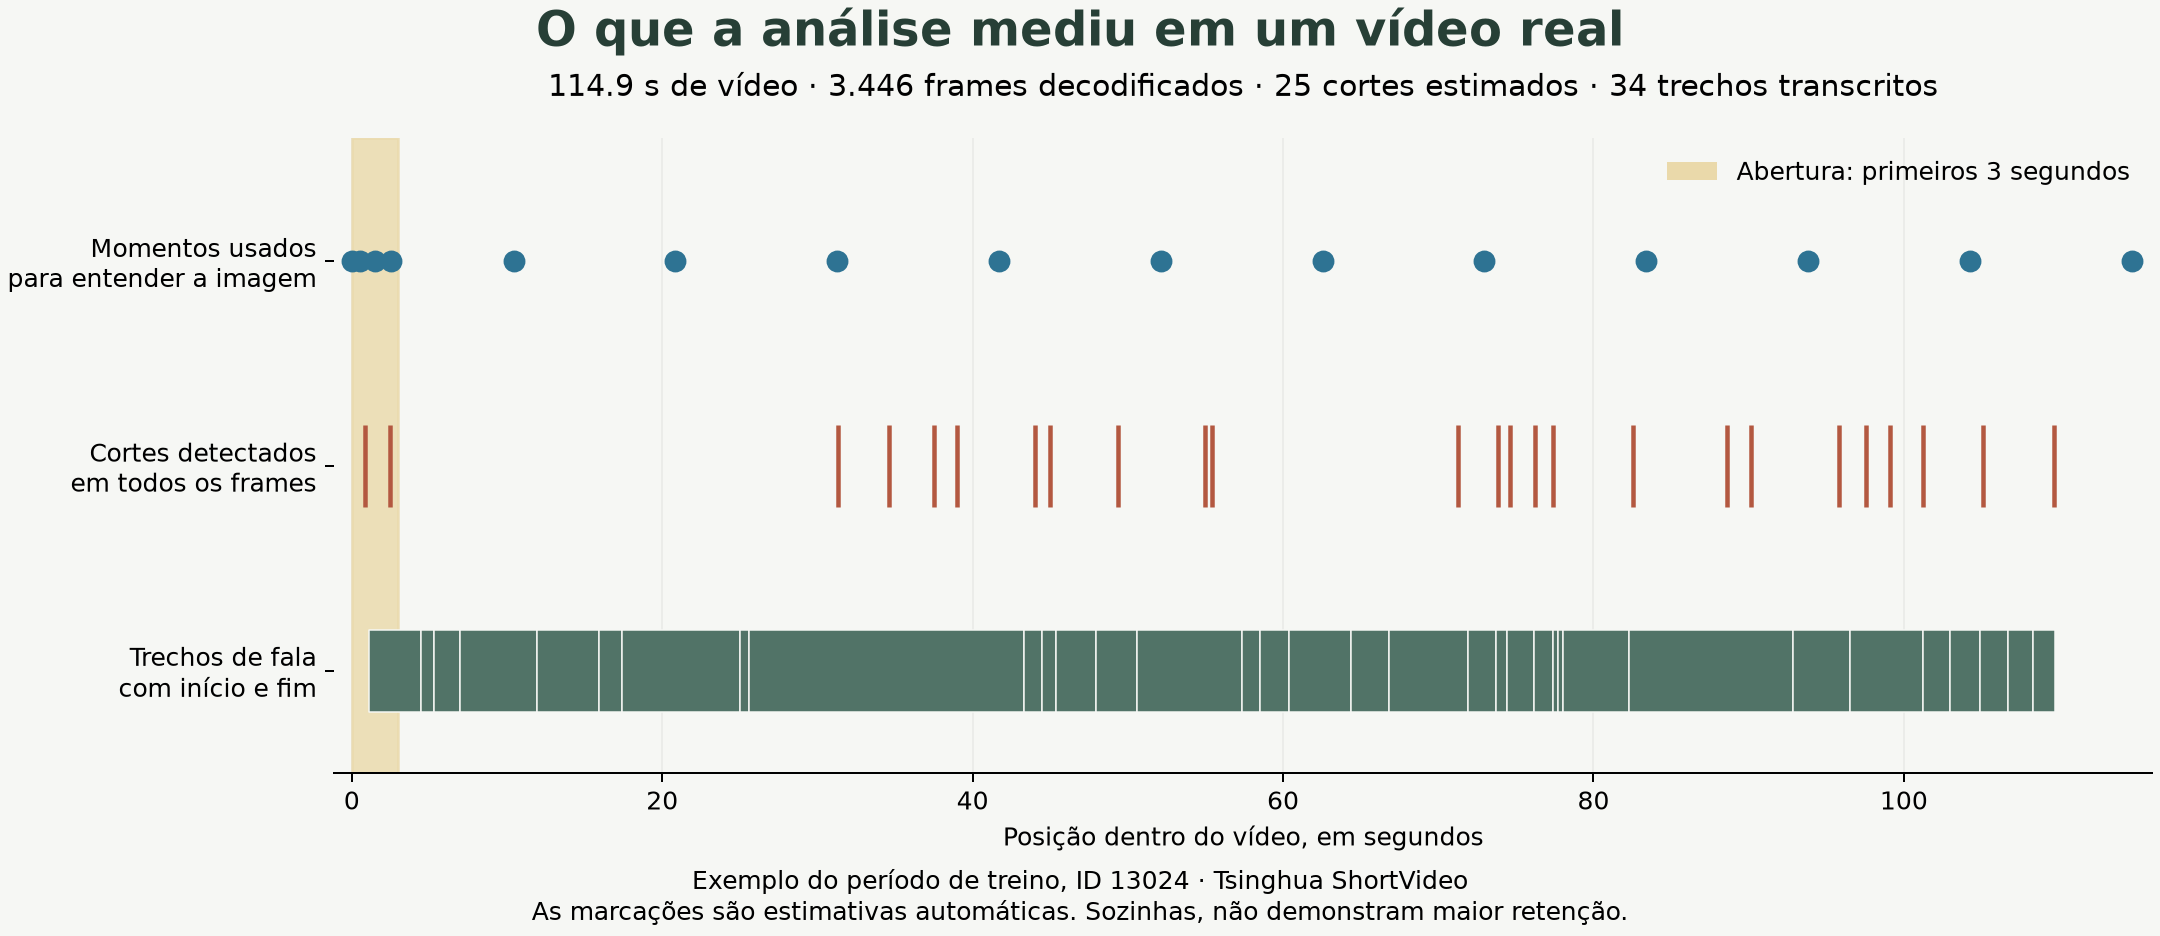
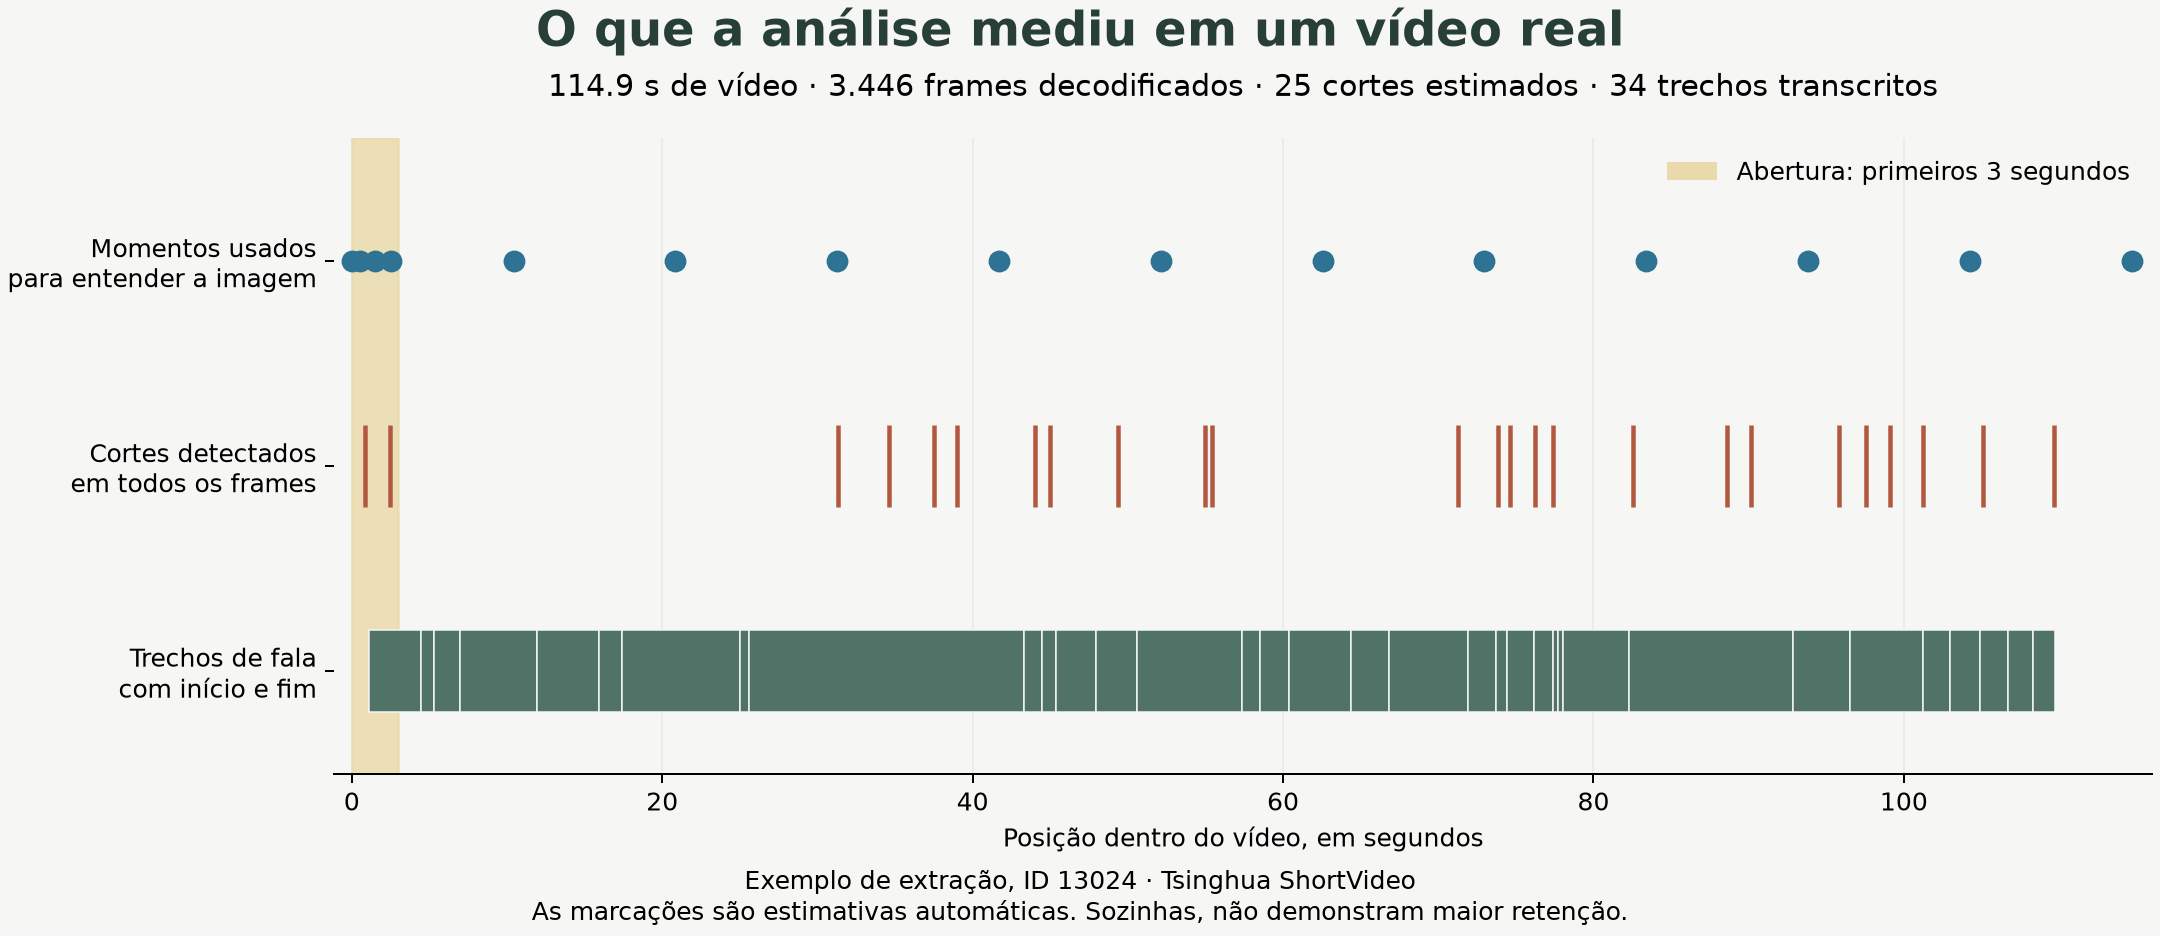
docs: distinguish complete-video study from the demo extraction pipeline

diff --git a/scripts/render_video_analysis.py b/scripts/render_video_analysis.py
@@ -14,6 +14,7 @@ parser = argparse.ArgumentParser(description=__doc__)
 parser.add_argument("features", type=Path)
 parser.add_argument("--output", type=Path, default=Path("docs/assets/video-analysis-example.png"))
 args = parser.parse_args()
+video_id = args.features.stem.removeprefix("video-")
 record = json.loads(args.features.read_text())
 duration = record["duration_s"]
 cuts = record["editing"]["cut_times"]
@@ -59,7 +60,7 @@ axis.set_title(
     pad=17,
 )
 fig.supxlabel(
-    "Exemplo do período de treino, ID 13024 · Tsinghua ShortVideo\nAs marcações são estimativas automáticas. Sozinhas, não demonstram maior retenção.",
+    f"Exemplo de extração, ID {video_id} · Tsinghua ShortVideo\nAs marcações são estimativas automáticas. Sozinhas, não demonstram maior retenção.",
     fontsize=10,
 )
 args.output.parent.mkdir(parents=True, exist_ok=True)

diff --git a/docs/VERIFICATION.md b/docs/VERIFICATION.md
@@ -2,7 +2,9 @@
 
 Última verificação local em **17 de outubro de 2026**, Python 3.12.13, macOS. O [lockfile](../uv.lock) fixa as dependências. Este registro descreve execuções locais; o resultado da CI remota precisa ser consultado separadamente.
 
-**Resultado atual: 62 testes passaram**, sem skips no ambiente local com FFmpeg disponível. Ruff, formatação e build também passaram. Houve sete avisos de depreciação de conversão temporal pandas/NumPy, sem falhas. A sintaxe JavaScript e a interface foram verificadas na entrega inicial; a atualização atual se concentrou na avaliação com dados públicos reais.
+**Resultado atual: 73 testes passaram**, sem skips no ambiente local com FFmpeg e os extras do estudo multimodal instalados. Ruff, formatação e build também passaram. Houve sete avisos de depreciação de conversão temporal pandas/NumPy no estudo anterior, sem falhas. A sintaxe JavaScript e a interface foram verificadas na entrega inicial; esta atualização se concentra na análise de vídeos completos e no teste temporal de retenção.
+
+A [CI do commit de modelagem e integridade `99fb771`](https://github.com/Gui0206/case-galaxies/actions/runs/39073856356) também terminou com sucesso. A CI usa o ambiente básico Linux; ela não baixa pesos nem reproduz a extração MLX executada localmente.
 
 | Camada | Verificação realizada |
 |---|---|
@@ -20,6 +22,8 @@
 | Treinamento assíncrono | Job persistido chega a `completed`; processo MCP/API vivo não é interrompido por outra instância |
 | MCP | Cliente oficial inicia servidor stdio, lista ferramentas e recebe `structuredContent` |
 | Mídia | FFmpeg gera um vídeo de teste original; o extrator lê frames/áudio e reutiliza o cache |
+| Vídeo completo | Corte conhecido em vídeo original de duas cenas; timestamps de fala recolocados após remoção de silêncio; rejeição de decodificação incompleta e vetores inválidos |
+| Retenção | Histórico aguarda o fim da observação; expurgo temporal; PCA somente no treino; remoção efetiva de modalidades; bootstrap pareado; escolha congelada e teste final de uso único |
 | Prospectivo | Resultado no horizonte correto; rejeição de sobrescrita e de evidência sintética |
 | Monitoramento | Ausência diferente de zero; latência; separação de níveis de evidência; concordância com anotação humana |
 | Interface | Navegação, comparação, evidências, troca de versão, upload/extração de vídeo, treinamento e layouts de desktop/tela estreita |

diff --git a/README.md b/README.md
@@ -57,6 +57,7 @@ flowchart LR
 | Modelagem | Ridge, CatBoost, LightGBM e blend; alvos absolutos/residuais; quantis calibrados por setor |
 | Experimentos | Competição em três janelas, contexto forte, ablações, controles negativos, seeds e canais não vistos; seleção congelada e teste final de uso único |
 | Testes públicos reais | Dois estudos de metadados, duas janelas de desenvolvimento, versões/hashes das fontes, referências simples e resultados negativos preservados |
+| Vídeos completos | [Pipeline de imagem, fala e edição](docs/FULL_VIDEO_METHOD.md), pesos fixados, decodificação completa para cortes e protocolo temporal de retenção |
 | Avaliação | MAE, MAE em log, MAPE com zeros explícitos, Spearman, pares, arrependimento de seleção, F1 de faixas, interval score, cobertura/largura e médias equilibradas por canal |
 | Explicação | SHAP de árvores/decomposição linear, comparáveis históricos, evidências temporais, abstenção e rastros em JSON |
 | Vídeo local | FFmpeg, atributos visuais/acústicos, cache por conteúdo e versão |
@@ -108,6 +109,10 @@ src/galaxies/
   protocol.py      cortes, candidatos e regra de seleção
   research.py      competição, diagnósticos e avaliação final
   public_benchmark.py  estudo público de metadados com alvos por calendário
+  shortvideo.py      aquisição de vídeos completos e histórico de retenção
+  deep_media.py     imagem, fala e semântica com pesos fixados
+  video_structure.py  cortes em todos os frames e movimento
+  retention_benchmark.py  teste temporal de retenção com escolha congelada
   experiments.py   suíte exploratória complementar
   service.py       fluxo LangGraph e decisões
   registry.py      versões, integridade e ativação
@@ -123,6 +128,6 @@ examples/          requisições e configurações executáveis
 tests/             verificações de comportamento
 ```
 
-Dados, modelos, vídeos e rastros ficam em `.runtime/`, ignorado pelo Git. O repositório não contém arquivos do briefing, credenciais, dados de clientes ou vídeos de terceiros.
+Dados, modelos, vídeos e rastros ficam em `.runtime/`, ignorado pelo Git. O repositório não contém arquivos do briefing, credenciais privadas, dados de clientes ou vídeos de terceiros. O acesso público ao dataset usa as informações de download publicadas pelos próprios autores.
 
 Desenvolvido por **Guilherme Holanda**, no contexto Inteli Academy × Galaxies.

diff --git a/docs/MODEL_CASE.md b/docs/MODEL_CASE.md
@@ -24,7 +24,7 @@ Há duas formulações concorrentes. Na absoluta, o modelo estima `log(1 + alvo)
 
 O contexto inclui estatísticas recentes, média móvel em log com decaimento temporal, tendência, idade do histórico, tamanho do canal, setor e regime de distribuição. Resultados que ainda não eram conhecidos são excluídos de cada consulta. Pesos de treino e métricas macro equilibram a participação dos canais.
 
-**O nível atual dos extratores importa:** texto usa hashing + SVD; os atributos básicos de vídeo/áudio são descritivos. Whisper, OpenCLIP, OCR e VLM têm adaptadores opcionais, mas não foram avaliados em vídeos reais deste domínio. Não se apresenta o núcleo lexical como um encoder semântico de fronteira. A próxima comparação de representações depende de vídeos autorizados, transcrições, amostragem temporal e anotação humana cega. Consulte [Multimodal](MULTIMODAL.md).
+**O nível dos extratores varia por estudo:** o núcleo anterior usa hashing + SVD e atributos descritivos de vídeo/áudio. O novo [pipeline de vídeo completo](FULL_VIDEO_METHOD.md) executa OpenCLIP, Whisper Large v3 Turbo, encoder semântico multilíngue e detector de cortes em todos os frames. Sua avaliação de retenção é separada da previsão de contagens. A precisão da transcrição e dos cortes ainda requer anotação humana cega; executar os encoders não comprova, por si só, ganho preditivo. Consulte [Multimodal](MULTIMODAL.md) para escolher o comando adequado.
 
 ## O protocolo que evita escolher pelo teste
 

diff --git a/docs/MULTIMODAL.md b/docs/MULTIMODAL.md
@@ -1,5 +1,22 @@
 # Do vídeo aos atributos
 
+## Análise completa do estudo real
+
+O [estudo de vídeo completo](FULL_VIDEO_METHOD.md) tem um pipeline próprio: OpenCLIP para imagem, Whisper Large v3 Turbo para fala, encoder semântico multilíngue e detecção de cortes sobre todos os frames. Esse pipeline usa pesos fixados, cache por conteúdo e verificações de integridade antes de treinar.
+
+```bash
+uv sync --frozen --group dev --extra audio --extra vision --extra semantic --extra apple
+uv run --no-sync python scripts/run_multimodal.py weights --speech-backend mlx
+uv run --no-sync python scripts/run_multimodal.py analyze /caminho/video.mp4 \
+  --speech-backend mlx --output .runtime/analise-completa.json
+```
+
+Esse perfil usa Apple Silicon. A alternativa CPU e suas diferenças estão no método. O JSON mostra o conteúdo extraído; não atribui uma nota de viralidade. O estudo de retenção permanece separado do contrato de previsão de visualizações/curtidas.
+
+As seções seguintes documentam o extrator básico da aplicação e seus adaptadores opcionais. O comando `galaxies extract` continua disponível, mas não executa automaticamente o pipeline do estudo acima.
+
+## Extrator básico da aplicação
+
 ```mermaid
 flowchart LR
     A["Vídeo original local"] --> B["FFprobe<br>duração e limites"]

diff --git a/docs/DATA.md b/docs/DATA.md
@@ -8,6 +8,8 @@ O [estudo público de metadados](REAL_DATA_RESULTS.md) usa Ken Jee (196 vídeos 
 
 Essas bases não comprovam versões originais anteriores à publicação nem observações em exatamente 168 horas. Por isso são processadas por `public_benchmark.py`, separadamente do contrato abaixo. Não inventamos datas ou setores para importá-las como dados prontos para produção. Os CSVs ficam em `.runtime/public/`, ignorado pelo Git; não são a base sintética da interface.
 
+O [estudo de vídeos completos](FULL_VIDEO_METHOD.md) usa uma terceira fonte, Tsinghua ShortVideo: arquivos de vídeo e logs com criador, duração e tempo assistido. O alvo é retenção no primeiro dia observado pelo painel, porque não há data de publicação verificável. `shortvideo.py` e `retention_benchmark.py` mantêm esse alvo separado do contrato de contagens; não preenchem a data de publicação com uma suposição. Vídeos completos, transcrições e logs permanecem fora do Git.
+
 ```mermaid
 timeline
     title Disponibilidade da informação
